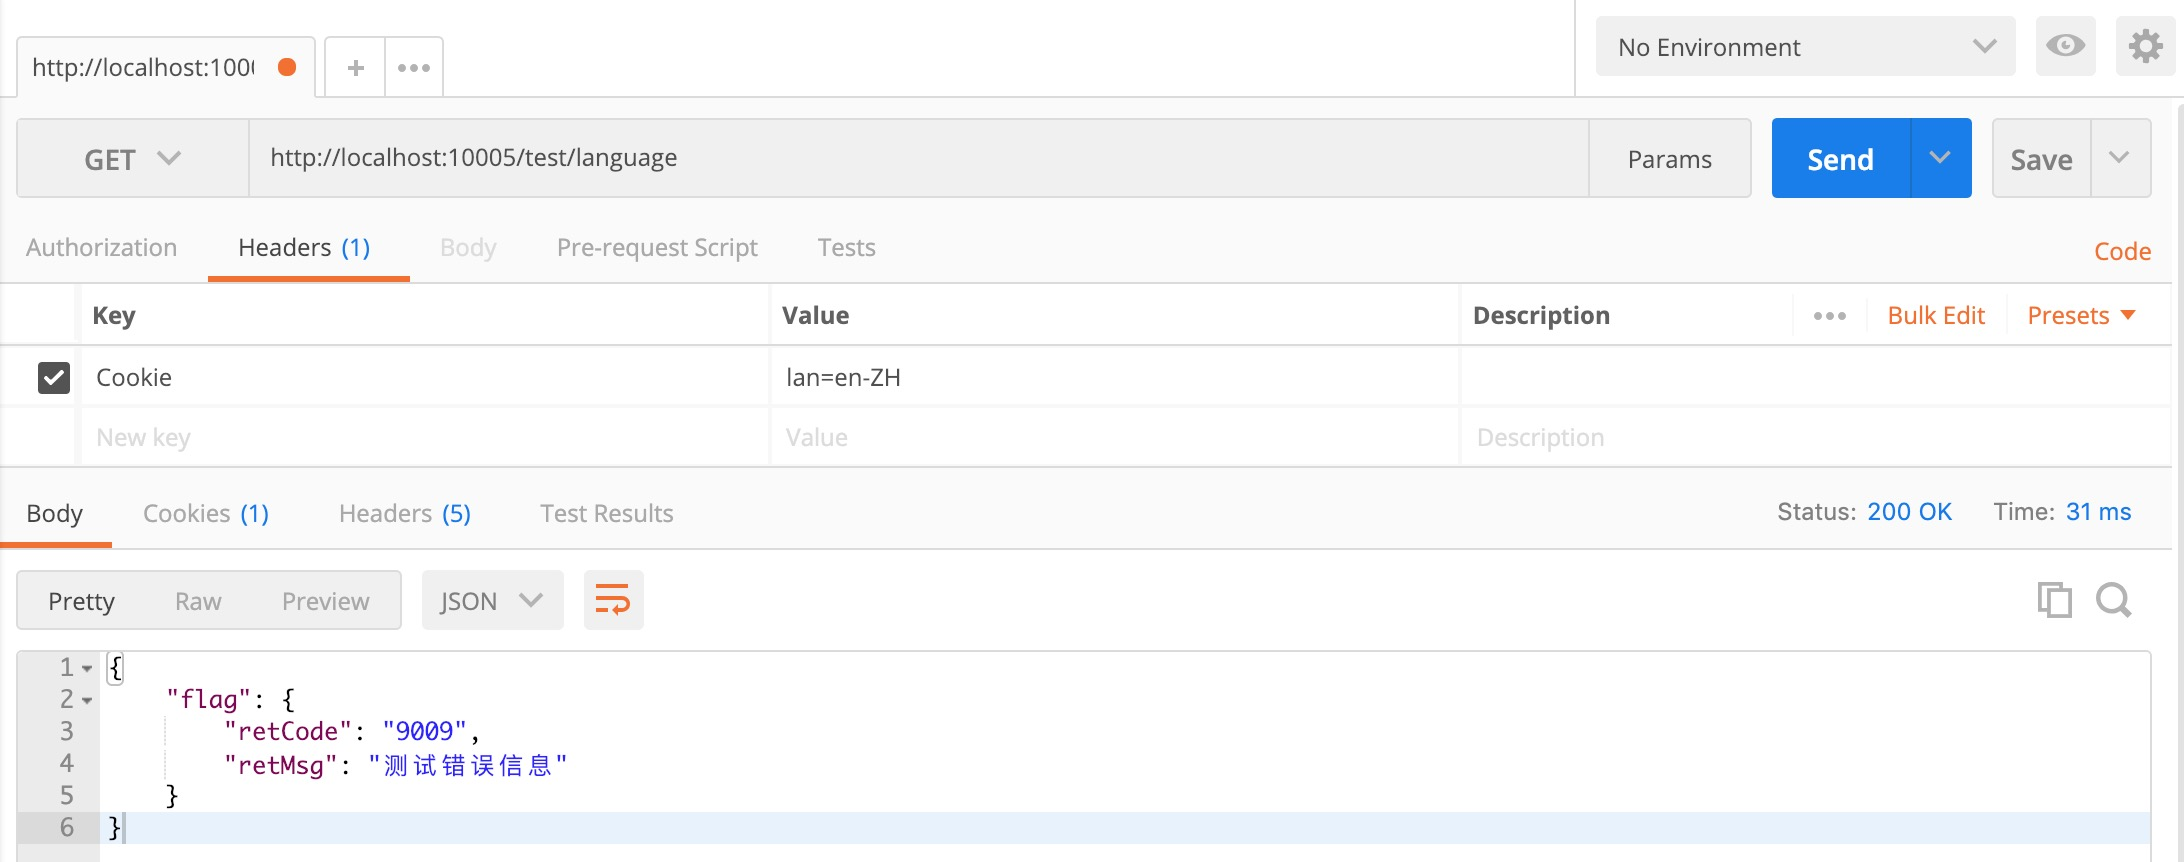
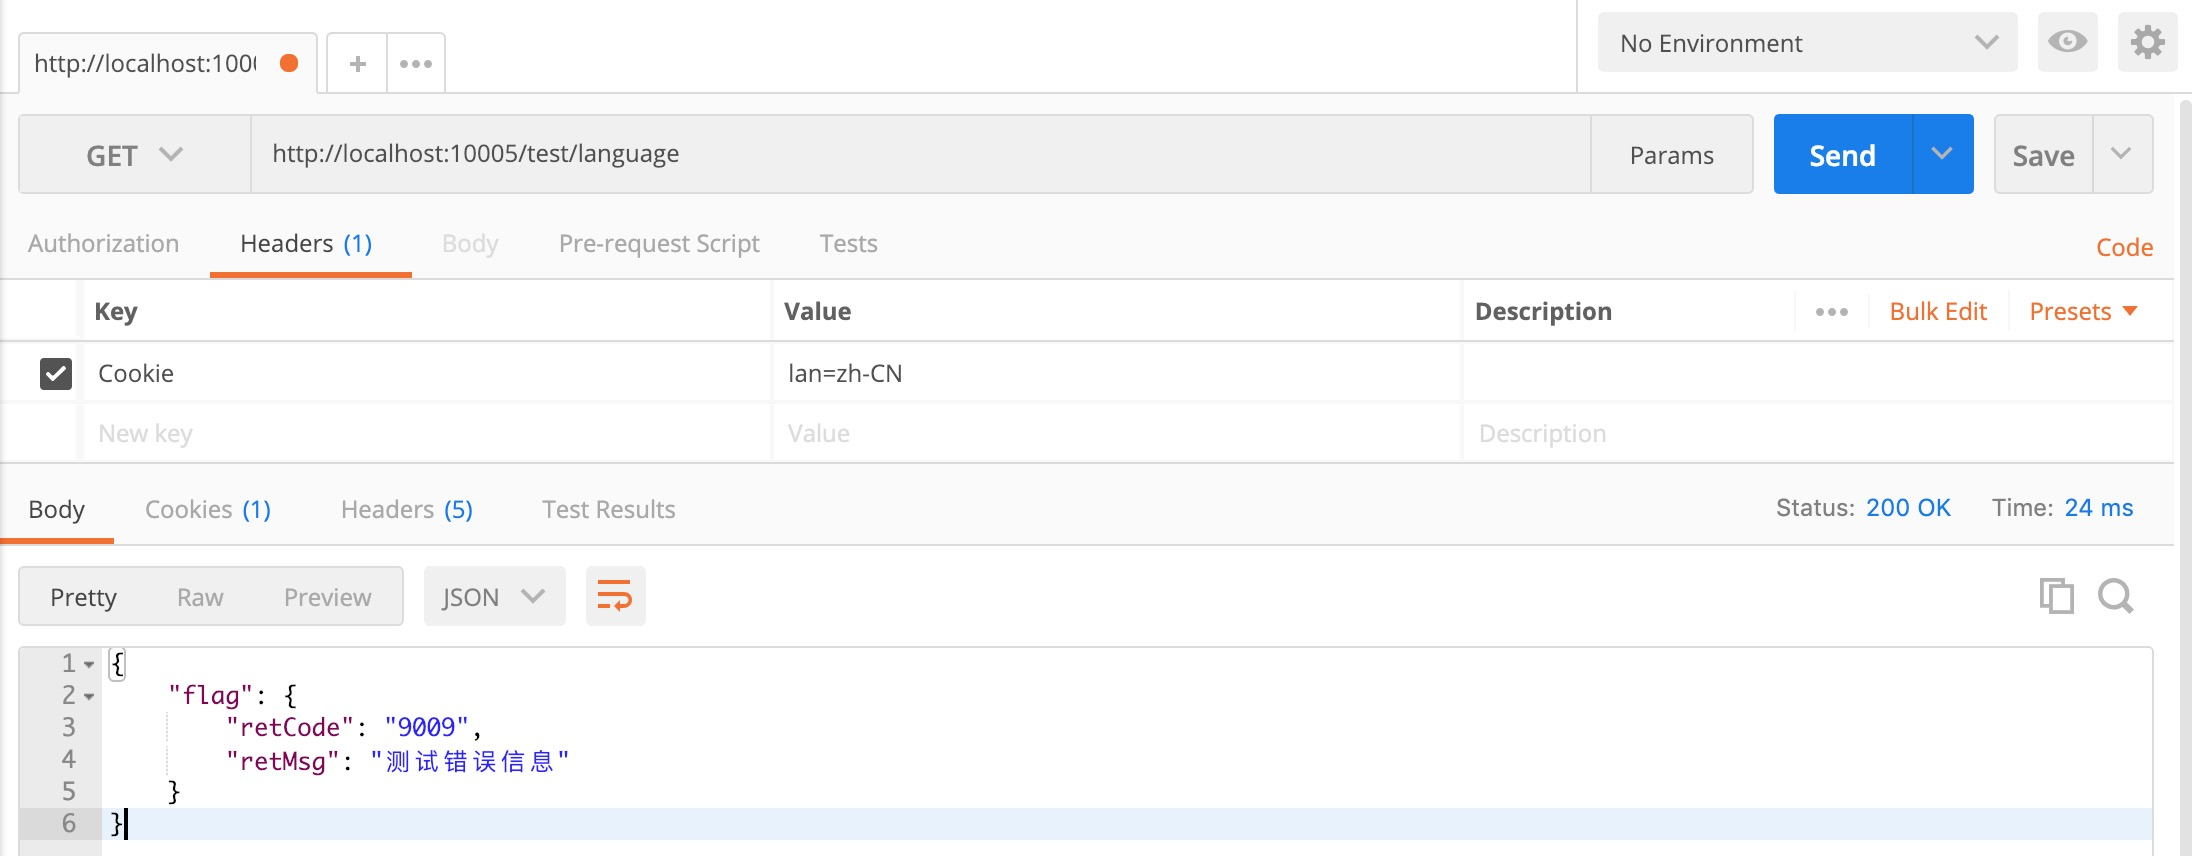
新增国际化

diff --git a/开发模板/国际化.md b/开发模板/国际化.md
@@ -1,0 +1,248 @@
+#### 国际化
+- 核心思想
+  - 对需要提供多语言的业务，新建一张多语言表，将需要多语言的字段放入该表中
+  - 保存数据时，将需要多语言的字段存入对应的语言表
+  - 修改数据时，根据语言类型，修改对应的语言表记录
+  - 删除数据时，同时删除语言表数据
+  - 查询数据时，根据前端请求头里带的语言类型，从多语言表中取出相应的值，替换默认表
+- 前端请求链接的Cookie里带上语言类型lan=en-US/zh-cn/zh-tw/zh-ja
+- 表结构设计
+  ``` sql
+    /*
+    * sys_project							产品表
+    */
+    drop table if exists sys_project;
+    create table sys_project
+    (
+      id         				bigint 		not null 					comment 'ID',
+      code					    varchar(20) not null					comment '产品编码',
+      name 		 			    varchar(64) not null					comment '产品名称',
+	  home_url				    varchar(64) 							comment '首页URL',
+	  gateway_url			    varchar(64) 							comment '网关URL',	
+	  big_icon  				varchar(128)							comment '大图标',
+	  small_icon  			    varchar(128)							comment '小图标',
+	  status  				    tinyint		default 1					comment '状态',
+      creator					varchar(20) not null					comment '建档人',
+      create_time				datetime 	not null					comment '建档时间',
+      modifier				    varchar(20) 							comment '最后修改人',
+      modify_time				datetime								comment '最后修改时间',
+      remarks					varchar(255) 							comment '备注',
+      constraint pk_sys_project primary key(id),
+      constraint unique_sys_project unique(code)
+    )ENGINE=InnoDB DEFAULT CHARSET=utf8 comment='项目表';
+
+    -- 项目多语言表
+    drop table if exists sys_project_language;
+    create table sys_project_language
+    (
+      id         				bigint 		not null 					comment 'ID',
+      project_id         		bigint 		not null 					comment '项目ID',
+      project_name 		 	    varchar(64) not null					comment '项目名称', 
+      language_type			    varchar(20) not null					comment '语言类型', -- 数据字典 （zh-cn=中文 zh-tw=繁体 en=英文 ja=日语）
+      remarks					varchar(255) 							comment '备注',
+      constraint pk_sys_project_language primary key(id),
+      constraint unique_sys_project_language unique(project_id,language_type)
+    )ENGINE=InnoDB DEFAULT CHARSET=utf8 comment='项目多语言表';
+    ```
+- 使用方法
+      - 新增、修改、删除
+        - service层引入多语言服务
+        
+          ``` java
+            @Autowired
+            private SysProjectLanguageMapper sysProjectLanguageMapper;
+          ```
+        - service层重写simpleSave方法(用于处理新增修改)、beforeDelete(用于处理删除)
+        
+          ``` java
+          /**
+           * 重写，处理多语言
+           * @param reqData
+           * @param systemUser
+           * @param fieldMap
+           * @throws IOException
+           */
+          @Override
+          protected void simpleSave(SimpleSaveRequest reqData, SystemUser systemUser, Map<String, Object> fieldMap) throws IOException {
+              List<SysProject> listInsertRows = null;
+              List<SysProject> listUpdateRows = null;
+              List<SysProject> listDeleteRows = null;
+              String opByOther = "";
+              boolean confirmable;
+              if (CommonUtil.isNotNull(reqData.getInsertRows())) {
+                  listInsertRows = reqData.getInsertRows();
+                  listInsertRows = this.parseListBean(listInsertRows, this.entityClass);
+                  confirmable = this.beforeInsert(listInsertRows, systemUser);
+                  if (confirmable) {
+                      this.getProxyService().insertBatch(listInsertRows, listInsertRows.size());
+                  }
+                  listInsertRows.forEach(insert -> {
+                      SysProjectLanguage language = this.changeToSysProjectLanguage(insert);
+                      sysProjectLanguageMapper.insert(language);
+                  });
+    
+              }
+              if (CommonUtil.isNotNull(reqData.getUpdateRows())) {
+                  listUpdateRows = reqData.getUpdateRows();
+                  listUpdateRows = this.parseListBean(listUpdateRows, this.entityClass);
+                  confirmable = this.beforeUpdate(listUpdateRows, systemUser);
+                  if (confirmable) {
+                      Iterator var10 = listUpdateRows.iterator();
+    
+                      while (var10.hasNext()) {
+                          SysProject t = (SysProject) var10.next();
+                          this.getProxyService().updateByIdNames(t, fieldMap, opByOther);
+                      }
+                  }
+                  listUpdateRows.forEach(update -> {
+                      SysProjectLanguage language = this.changeToSysProjectLanguage(update);
+                      EntityWrapper ew = new EntityWrapper();
+                      ew.eq("project_id", update.getId());
+                      ew.eq("language_type", MessageUtils.getLocaleStr());
+                      Integer integer = sysProjectLanguageMapper.selectCount(ew);
+                      if (integer != null && integer > 0) {
+                          sysProjectLanguageMapper.update(language, ew);
+                      } else {
+                          sysProjectLanguageMapper.insert(language);
+                      }
+    
+                  });
+              }
+              if (CommonUtil.isNotNull(reqData.getDeleteRows())) {
+                  confirmable = Confirmable.class.isAssignableFrom(this.entityClass);
+                  listDeleteRows = reqData.getDeleteRows();
+                  boolean flagDelete = this.beforeDelete(listDeleteRows, systemUser);
+                  AbstractEntity entity;
+                  if (flagDelete) {
+                      for (Iterator var15 = listDeleteRows.iterator(); var15.hasNext(); this.getProxyService().deleteByIdNames(entity, fieldMap, opByOther)) {
+                          Object t = var15.next();
+                          entity = this.parseBean(t, this.entityClass);
+                          if (confirmable) {
+                              if (((Confirmable) entity).isConfirmed()) {
+                                  throw new MyselfMsgException(MessageUtils.message("base.simple.page.data.affirm", new Object[]{entity.getId()}));
+                              }
+                              opByOther = StringUtils.isEmpty(opByOther) ? "confirmFlag" : ",confirmFlag";
+                          }
+                      }
+                  }
+              }
+    
+          }
+          
+          /**
+           * 重写删除，处理多语言
+           * @param list
+           * @param user
+           * @return
+           */
+          @Override
+          public boolean beforeDelete(List<SysProject> list, SystemUser user) {
+              List<Long> collect = list.stream().map(SysProject::getId).collect(Collectors.toList());
+              EntityWrapper ew = new EntityWrapper();
+              ew.in("project_id", collect);
+              ew.eq("language_type", MessageUtils.getLocaleStr());
+              sysProjectLanguageMapper.delete(ew);
+              return true;
+    
+          }
+          
+          /**
+           * 处理多语言保存、修改
+           * @param sysProject
+           * @return
+           */
+          private SysProjectLanguage changeToSysProjectLanguage(SysProject sysProject) {
+              SysProjectLanguage language = new SysProjectLanguage();
+              language.setProjectId(sysProject.getId());
+              language.setProjectName(sysProject.getName());
+              language.setLanguageType(MessageUtils.getLocaleStr());
+              language.setRemarks(sysProject.getRemarks());
+              return language;
+    
+          }
+          ```
+      - 查询
+        - controller层
+              - 注入对应多语言表服务
+              
+                ``` java
+                @Autowired
+                private SysProjectLanguageService sysProjectLanguageService;
+                ```
+              
+              - 重写基类分页查询方法
+                
+                ``` java
+                /**
+                 * 分页查询项目信息
+                 * @param page
+                 * @param entityWrapper
+                 * @return
+                 */
+                @RequestMapping(value = "/find.json", method = {RequestMethod.GET, RequestMethod.POST})
+                @ResponseBody
+                public Map<String, Object> find(Page page, EntityWrapper<SysProject> entityWrapper) {
+                    Map<String, Object> resultMap = WebUtils.getDefaultResultMap();
+                    Page<SysProject> pageList = this.baseService.selectPage(page, entityWrapper);
+                    List<SysProject> records = pageList.getRecords();
+                    sysProjectLanguageService.changeLanguage(records);
+                    resultMap.put(ResultConstants.ROWS, pageList.getRecords());
+                    resultMap.put(ResultConstants.TOTAL, pageList.getTotal());
+                    return resultMap;
+                }
+                ```
+        - 多语言服务层(注意是多语言表的服务层，默认表的服务层不用处理)
+        
+              ``` java
+              @Override
+                public List<SysProject> changeLanguage(List<SysProject> sysProjects) {
+                    if (sysProjects != null && !sysProjects.isEmpty()) {
+                        Map map = new HashMap<>(1);
+                        map.put("language_type",MessageUtils.getLocaleStr());
+                        List<SysProjectLanguage> sysProjectLanguages = basMapper.selectByMap(map);
+                        sysProjects.forEach(sysProject -> {
+                            sysProjectLanguages.forEach(sysProjectLanguage -> {
+                                        if (sysProjectLanguage.getProjectId().equals(sysProject.getId()) &&
+                                                sysProjectLanguage.getLanguageType().equals(MessageUtils.getLocaleStr())) {
+                                            sysProject.setName(sysProjectLanguage.getProjectName());
+                                            sysProject.setRemarks(sysProjectLanguage.getRemarks());
+                                        }
+                                    }
+                            );
+                        });
+                    }
+                    return sysProjects;
+                }
+              ```
+- 自定义异常国际化处理
+  - 各语言配置文件中自定义异常信息
+    petrel-itg/petrel-itg-api/src/main/resources/i18n/messages_en_US.properties
+    自定义异常信息: test.error.message=Test error message
+    petrel-itg/petrel-itg-api/src/main/resources/i18n/messages_zh_CN.properties
+    自定义异常信息: test.error.message=测试错误信息
+    petrel-itg/petrel-itg-api/src/main/resources/i18n/messages_zh_TW.properties
+    自定义异常信息: test.error.message=測試錯誤信息
+  - 测试接口
+    ``` java
+    @RestController
+    @RequestMapping(value = "/test")
+    public class TestLanguage {
+
+        @GetMapping("/language")
+        public Map<String,Object> test(){
+            return ResultMapUtils.getErrorResultMap(MessageUtils.message("test.error.message"));
+        }
+    }
+    ```
+  - postman测试结果
+    - 中文
+    
+      ![中文](/assets/测试中文错误信息.png)
+    
+    - 繁体中文
+    
+      ![繁体中文](/assets/测试繁体中文错误信息.png)
+      
+    - 英文
+      
+      ![英文](/assets/测试英文错误信息.png)

diff --git a/SUMMARY.md b/SUMMARY.md
@@ -26,4 +26,5 @@
     * [Api开发模板](开发模板/api开发模板.md)
     * [Client开发模板](开发模板/client开发模板.md)
     * [多表关联查询](开发模板/多表关联查询.md)
+    * [国际化](开发模板/国际化.md)
 
